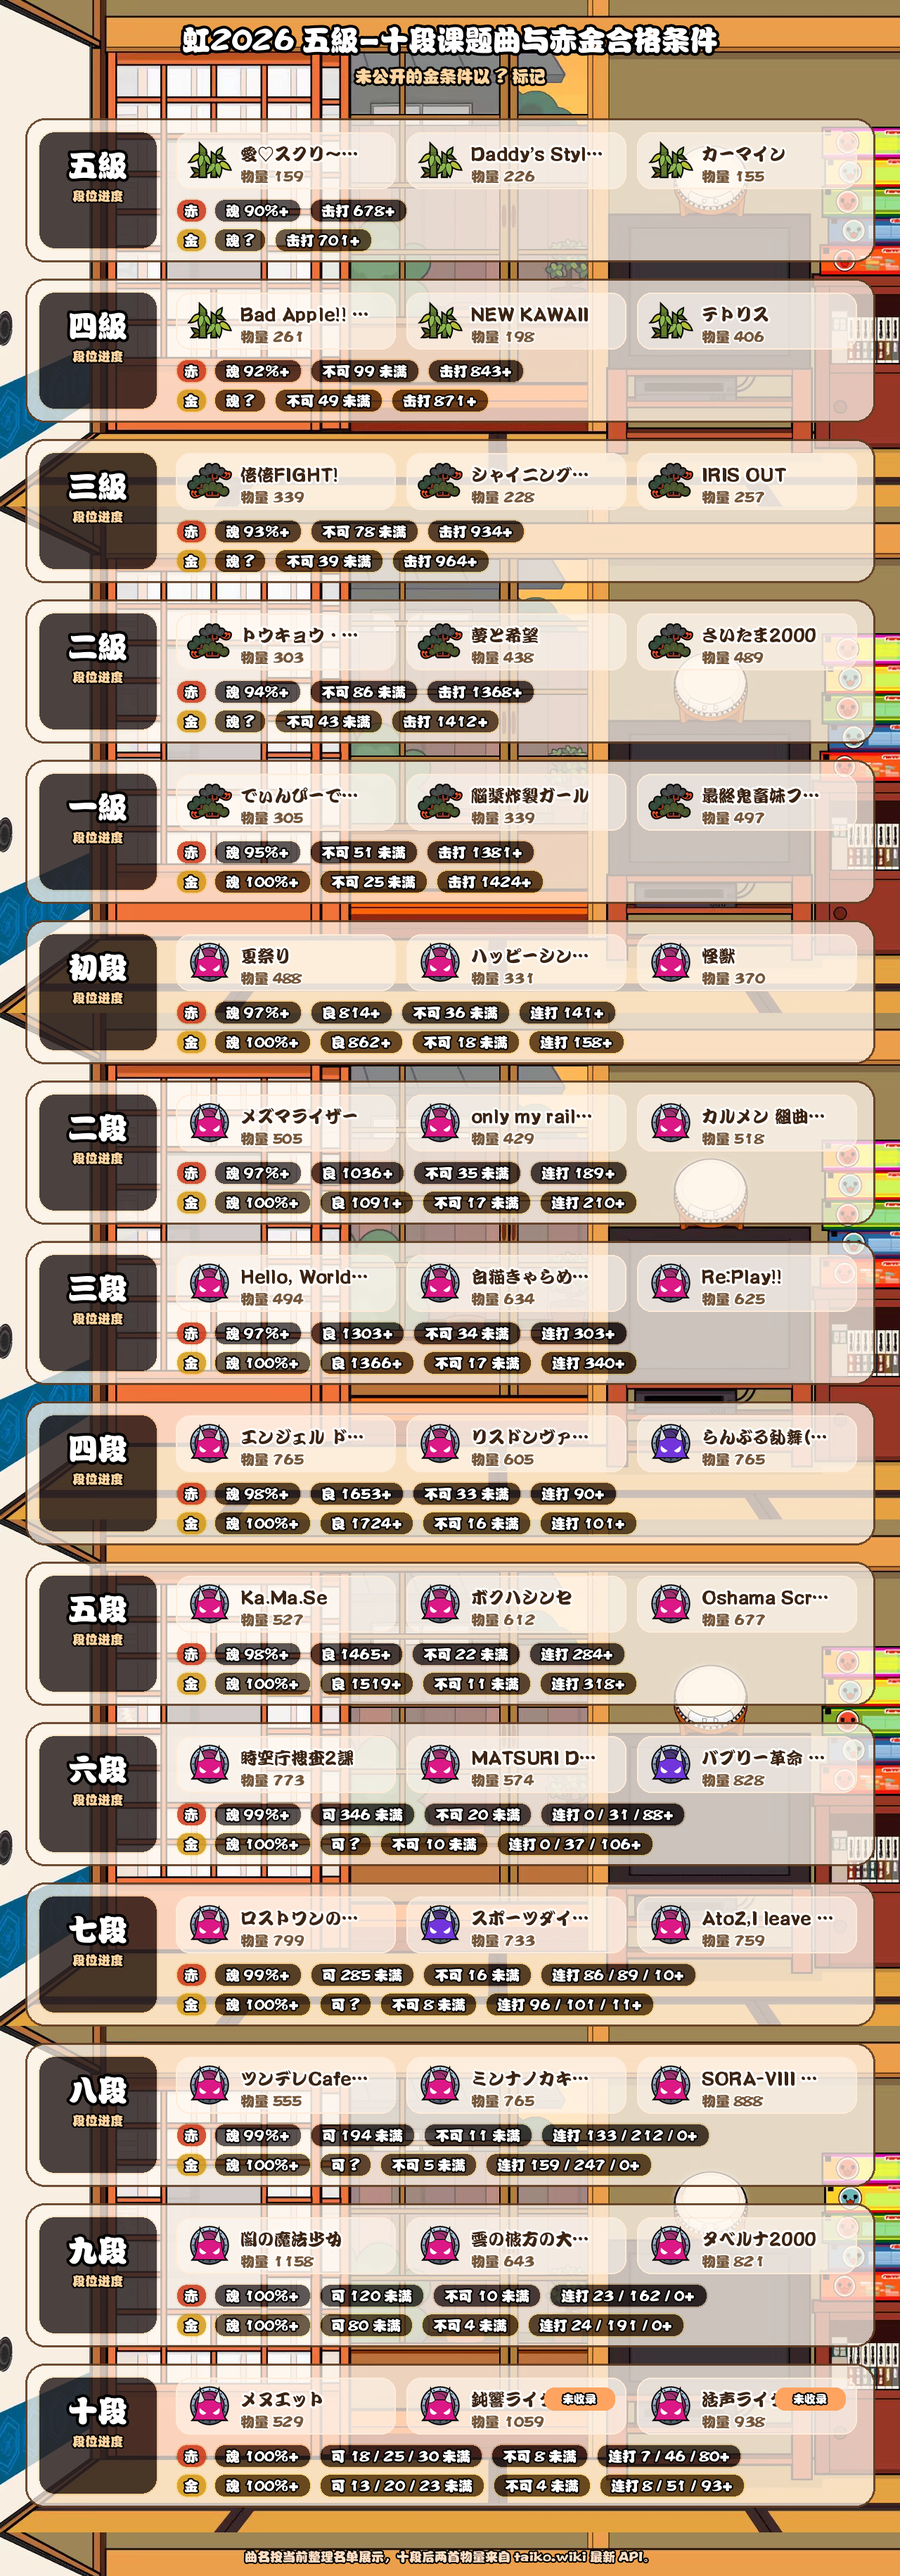
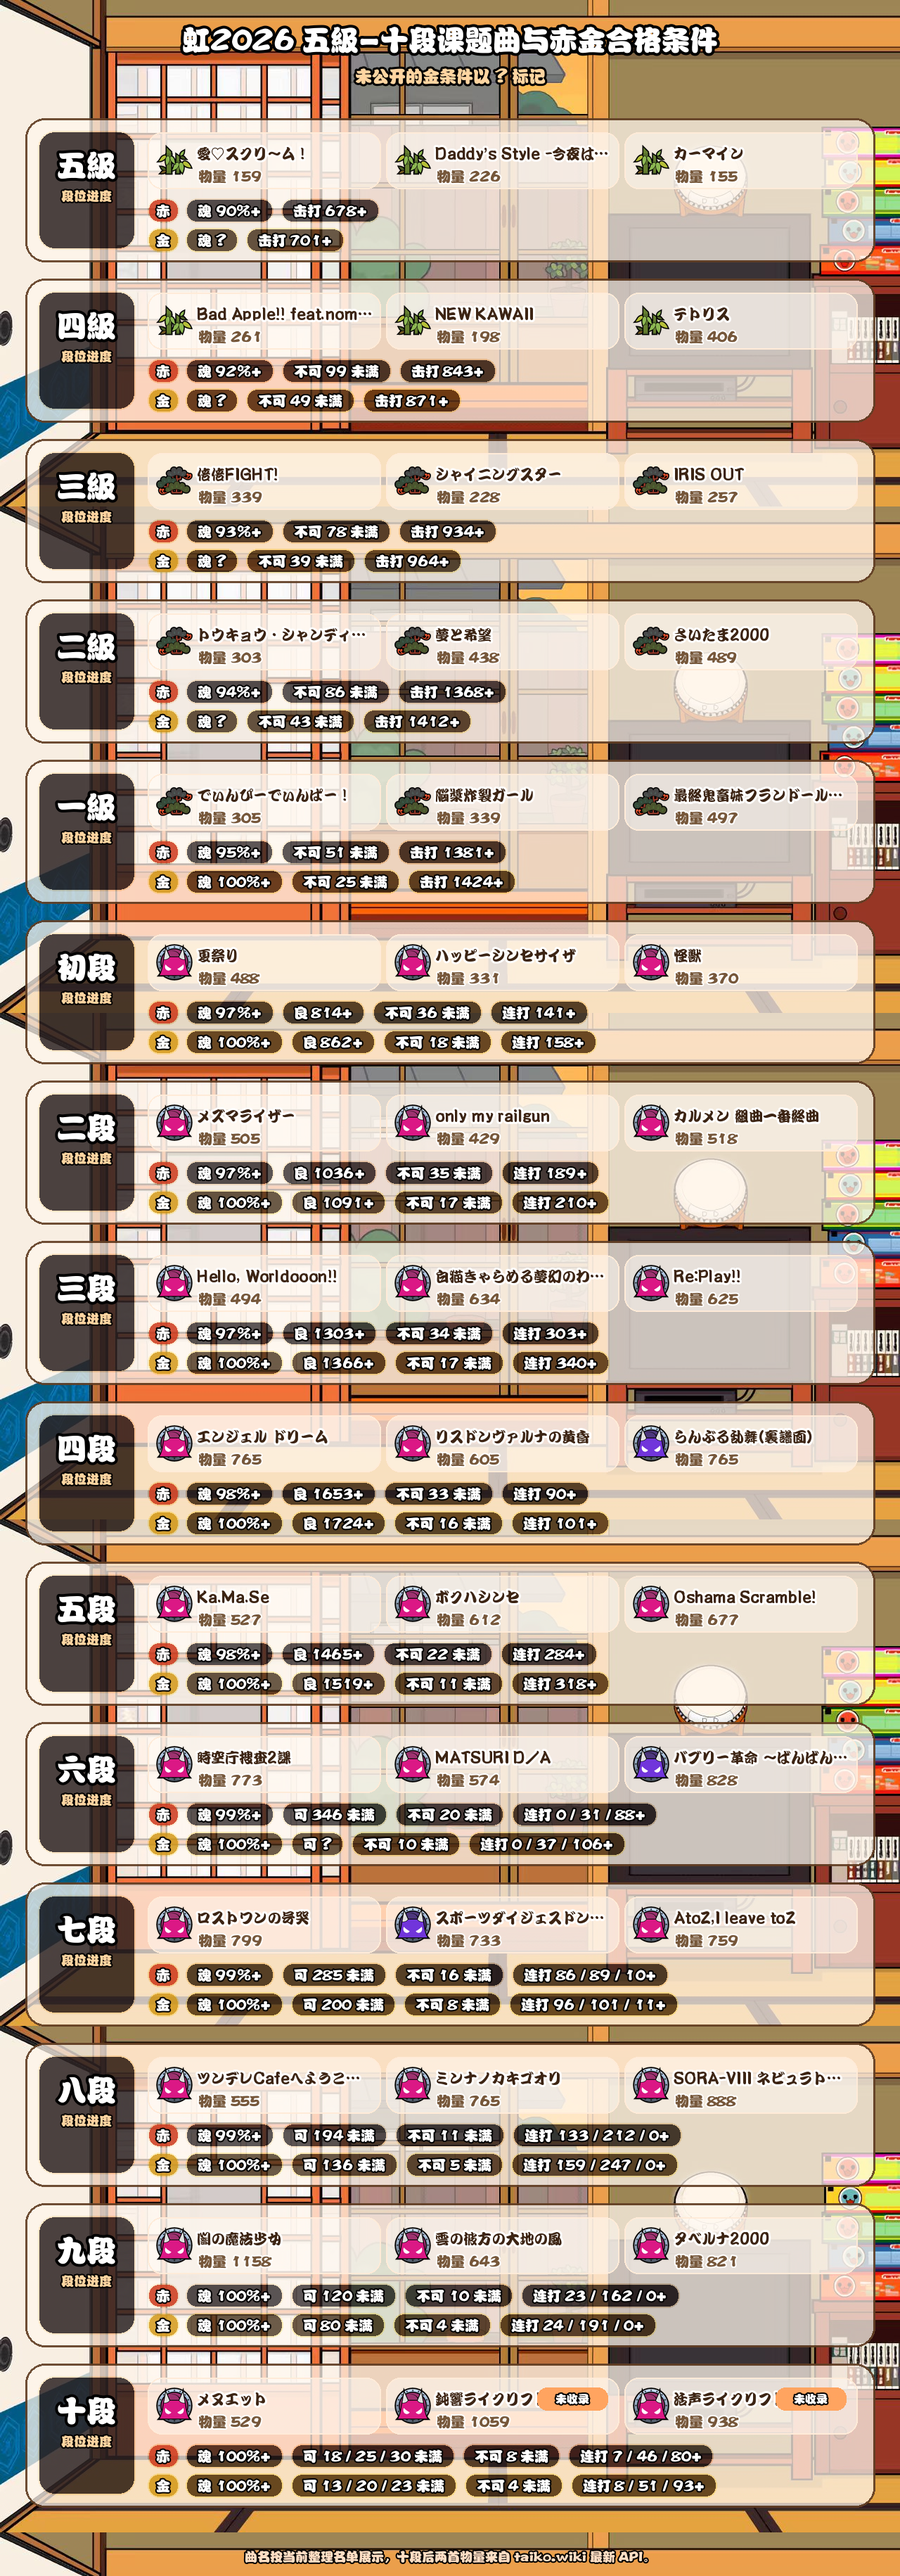
0.26.4 更新虹2026七段八段金条件与首页总览图

diff --git a/taiko_viewer/pages/index.vue b/taiko_viewer/pages/index.vue
@@ -3,7 +3,7 @@ import { computed } from "vue";
 
 const apiBase = "https://static.sakura-bot.cn";
 const runtimeConfig = useRuntimeConfig();
-const appVersion = runtimeConfig.public.appVersion || "0.26.3";
+const appVersion = runtimeConfig.public.appVersion || "0.26.4";
 const featuredGradeImage = "/nijiiro_2026_dan_overview.png";
 const { t, locale } = useI18n();
 const localePath = useLocalePath();

diff --git a/taiko_viewer/scripts/sync_nijiiro_2026_grade_dojo.py b/taiko_viewer/scripts/sync_nijiiro_2026_grade_dojo.py
@@ -44,6 +44,11 @@ SLUGS = [
 ]
 KYU_SLUGS = {"五級", "四級", "三級", "二級", "一級"}
 DAN_SLUGS = {"初段", "二段", "三段", "四段", "五段", "六段", "七段", "八段", "九段", "十段"}
+GOLD_CONDITION_OVERRIDES = {
+    # Confirmed gold ok-count limits that are not yet fully reflected in the source table.
+    "七段": {"okCountLessThan": 200},
+    "八段": {"okCountLessThan": 136},
+}
 
 REMOVE_SELECTORS = [
     "script",
@@ -476,6 +481,10 @@ def resolved_gold_conditions(slug: str, pass_cond: Dict[str, Any], gold_cond: Di
     pass_bad = pass_cond.get("badCountLessThan")
     if resolved.get("badCountLessThan") is None and isinstance(pass_bad, int) and pass_bad > 0:
         resolved["badCountLessThan"] = pass_bad // 2
+
+    override = GOLD_CONDITION_OVERRIDES.get(slug)
+    if override:
+        resolved.update(override)
 
     return resolved
 
